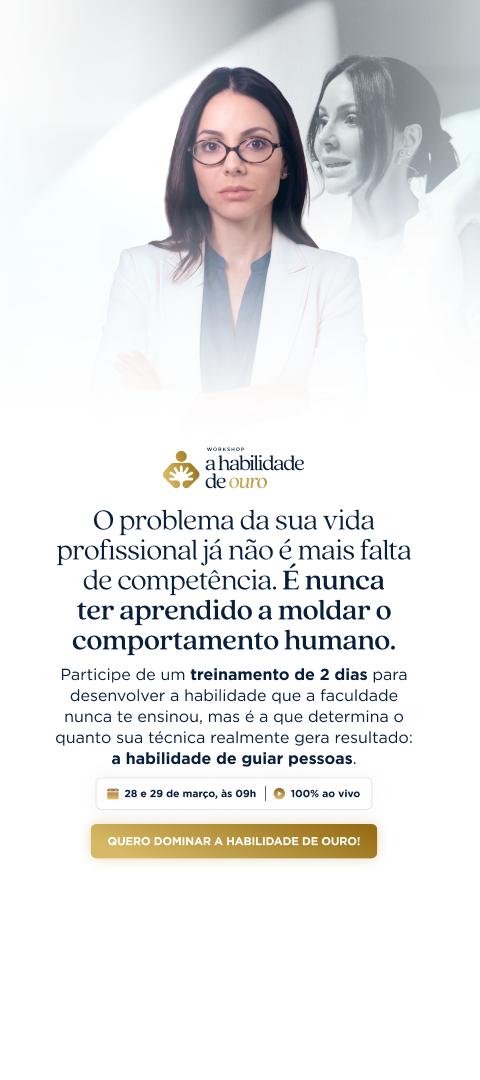
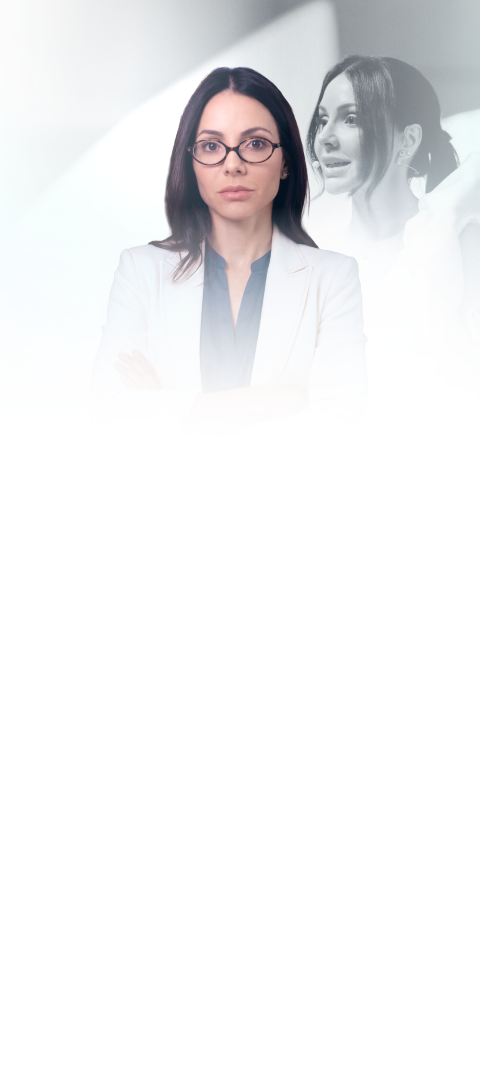
Adaptações mobile completas da landing page
- Cabeçalho: textos 11px, layout empilhado, contador separado
- Dobra 1: BG mobile, head 30px, subhead 18px, centralizado, logo posicionada
- Mentores: foto Carol antes do texto, badges full-width, textos 16px
- Seção ensinar: textos 16px, alinhados à esquerda, cards empilhados
- Cronograma: textos 16px, datas 30px, alinhados à esquerda
- Para quem é: textos 16px, espaçamentos reduzidos
- Oferta: BG mobile, textos 14px, head 28px, preço maior, pt-280px
- Paddings reduzidos (py-10) em todas as dobras mobile
- Largura máxima 360px em todo conteúdo mobile

Changed region(s): [[0.125, 0.3972, 0.875, 0.7944]]

diff --git a/src/App.tsx b/src/App.tsx
@@ -61,7 +61,8 @@ export default function App() {
       <main className="relative z-10 [&>section+section]:mt-0">
         
         {/* 1ª DOBRA - Hero */}
-        <section className="pt-[260px] md:pt-20 pb-24 px-6 bg-[url('/assets/BG1%20MOBILE.png?v=2')] bg-cover bg-[center_top_-30px] bg-no-repeat md:bg-[url('/assets/BG1%20DESKTOP.png')] md:bg-cover md:bg-[center_top_-80px] md:bg-no-repeat">
+        <section className="pt-[245px] md:pt-20 pb-12 md:pb-24 px-6 bg-[url('/assets/BG1%20MOBILE.png?v=3')] bg-cover bg-[center_top_-30px] bg-no-repeat md:bg-[url('/assets/BG1%20DESKTOP.png')] md:bg-cover md:bg-[center_top_-80px] md:bg-no-repeat relative">
+          <img src="/assets/LOGO.svg" alt="Workshop A Habilidade de Ouro" className="absolute top-[45px] left-4 h-11 w-auto md:hidden" />
           <div className="max-w-[360px] md:max-w-[1140px] mx-auto text-center md:text-left flex flex-col items-center md:items-start">
           <img src="/assets/LOGO.svg" alt="Workshop A Habilidade de Ouro" className="mb-12 h-16 w-auto hidden md:block" />
 
@@ -92,38 +93,37 @@ export default function App() {
         </section>
 
         {/* 2ª DOBRA - Mentors */}
-        <section className="py-16 px-6 bg-[url('/assets/BG%20BASE%20DESKTOP.png')] bg-cover bg-center bg-no-repeat border-y border-white/5">
+        <section className="py-10 md:py-16 px-6 bg-[url('/assets/BG%20BASE%20DESKTOP.png')] bg-cover bg-center bg-no-repeat border-y border-white/5">
           <div className="max-w-[360px] md:max-w-[1140px] mx-auto">
             <h2 className="text-3xl md:text-[40px] font-serif text-center text-white mb-10">
-              Conheça os seus mentores no<br/>
-              <span className="italic text-brand-gold">Workshop: A Habilidade de Ouro</span>
+              Conheça os seus mentores<br className="md:hidden"/> no <span className="italic text-brand-gold">Workshop:<br/> A Habilidade de Ouro</span>
             </h2>
 
             {/* Mentor Grid - Replicating the visual style of the reference */}
             <div className="grid grid-cols-1 md:grid-cols-3 gap-8">
               
               {/* Main Mentor (Carol Rache - implied from reference image structure) */}
-              <div className="md:col-span-3 flex flex-col md:flex-row items-center gap-12 mb-12 w-full">
-                <div className="w-full md:flex-1 space-y-6">
+              <div className="md:col-span-3 flex flex-col-reverse md:flex-row items-center gap-4 md:gap-12 mb-12 w-full">
+                <div className="w-full md:flex-1 space-y-3 md:space-y-6">
                   <h3 className="text-[48px] font-serif text-white">Carol Rache</h3>
-                  <p className="text-white leading-relaxed text-lg font-normal">
+                  <p className="text-white leading-relaxed text-[16px] md:text-lg font-normal">
                     Já são <strong className="font-bold">mais de 10 anos como Mentora de Desenvolvimento Pessoal</strong>. Primeiro, Carol acendeu a própria luz e se curou. Depois, transbordou essa transformação para <strong className="font-bold">+ 40 mil pessoas</strong>, que tiveram suas vidas destravadas.
                   </p>
-                  <p className="text-white leading-relaxed text-lg font-normal">
+                  <p className="text-white leading-relaxed text-[16px] md:text-lg font-normal">
                     Carol ouviu o que pulsava e seguiu seu propósito: acelerar e <strong className="font-bold">descomplicar o processo de cura emocional</strong> de outras pessoas, alcançando não só realização, mas também os seguintes resultados:
                   </p>
-                  <div className="flex flex-wrap gap-3">
-                    <div className="flex items-center gap-3 border border-white/20 rounded-md px-4 py-4">
+                  <div className="flex flex-col md:flex-row md:flex-wrap gap-3">
+                    <div className="flex items-center gap-3 border border-white/20 rounded-md px-4 py-4 w-full md:w-auto">
                       <img src="/assets/LOGO FORBES.svg" alt="Forbes" className="h-5 w-auto" />
                       <span className="text-[16px] text-white font-normal">Colunista Forbes</span>
                     </div>
-                    <div className="flex items-center gap-3 border border-white/20 rounded-md px-4 py-4">
+                    <div className="flex items-center gap-3 border border-white/20 rounded-md px-4 py-4 w-full md:w-auto">
                       <img src="/assets/LOGO HARVARD.svg" alt="Harvard" className="h-8 w-auto" />
-                      <span className="text-[16px] text-white font-normal whitespace-nowrap">Certificação em comportamento humano de Harvard</span>
+                      <span className="text-[16px] text-white font-normal md:whitespace-nowrap">Certificação em<br className="md:hidden"/> comportamento humano de Harvard</span>
                     </div>
-                    <div className="flex items-center gap-3 border border-white/20 rounded-md px-4 py-4">
+                    <div className="flex items-center gap-3 border border-white/20 rounded-md px-4 py-4 w-full md:w-auto">
                       <img src="/assets/LOGO ACENDA.svg" alt="Acenda sua Luz" className="h-8 w-auto" />
-                      <span className="text-[16px] text-white font-normal">Autora do livro "Acenda sua Luz"</span>
+                      <span className="text-[16px] text-white font-normal">Autora do livro<br className="md:hidden"/> "Acenda sua Luz"</span>
                     </div>
                   </div>
                 </div>
@@ -137,53 +137,53 @@ export default function App() {
               </div>
 
               {/* Other Mentors */}
-              <div className="space-y-6">
+              <div className="space-y-3 md:space-y-6">
                  <img
                     src="/assets/FOTO PATRUS.png"
                     alt="Roberto Patrus"
-                    className="rounded-lg shadow-xl w-full object-cover aspect-[3/4]"
+                    className="rounded-lg shadow-xl w-full object-cover aspect-square md:aspect-[3/4]"
                   />
                   <h3 className="text-[40px] font-serif text-white">Roberto Patrus</h3>
-                  <p className="text-white text-sm leading-relaxed">
+                  <p className="text-white text-[16px] md:text-sm leading-relaxed">
                     <strong className="font-bold">Filósofo, psicólogo, autor renomado e referência em comportamento humano</strong> - com mestrado em Administração e doutorado em Filosofia pela Complutense de Madrid.
                   </p>
-                  <p className="text-white text-sm leading-relaxed">
+                  <p className="text-white text-[16px] md:text-sm leading-relaxed">
                     Como professor, Roberto combina <strong className="font-bold">profundidade</strong> conceitual com linguagem acessível, trazendo à tona o poder da filosofia para iluminar decisões, dilemas íntimos e desafios do cotidiano. Sua didática é marcada pela clareza, precisão e generosidade de quem entende que <strong className="font-bold">pensar bem é um ato de liberdade</strong>.
                   </p>
               </div>
 
-              <div className="space-y-6">
+              <div className="space-y-3 md:space-y-6">
                  <img
                     src="/assets/FOTO PATY.png"
                     alt="Paty Perdigão"
-                    className="rounded-lg shadow-xl w-full object-cover aspect-[3/4]"
+                    className="rounded-lg shadow-xl w-full object-cover aspect-square md:aspect-[3/4]"
                   />
                   <h3 className="text-[40px] font-serif text-white">Paty Perdigão</h3>
-                  <p className="text-white text-sm leading-relaxed">
+                  <p className="text-white text-[16px] md:text-sm leading-relaxed">
                     Fundadora da Mentorise, mentora e especialista em desenvolvimento humano, Paty Perdigão dedicou mais de 15 anos à área de Pessoas & Cultura em cargos de liderança, antes de dar um passo corajoso rumo ao seu propósito: <strong className="font-bold">ajudar mulheres a destravarem seus talentos e construírem carreiras com sentido e prosperidade</strong>.
                   </p>
-                  <p className="text-white text-sm leading-relaxed">
+                  <p className="text-white text-[16px] md:text-sm leading-relaxed">
                     É uma das mentoras do Transcenda e da Formação Acenda sua Luz, ao lado de Carol Rache, acompanhando de perto a jornada de transformação de centenas de mulheres.
                   </p>
               </div>
 
-              <div className="space-y-6">
+              <div className="space-y-3 md:space-y-6">
                  <img
                     src="/assets/FOTO DUDA.png"
                     alt="Eduarda Maia"
-                    className="rounded-lg shadow-xl w-full object-cover aspect-[3/4]"
+                    className="rounded-lg shadow-xl w-full object-cover aspect-square md:aspect-[3/4]"
                   />
                   <h3 className="text-[40px] font-serif text-white">Eduarda Maia</h3>
-                  <p className="text-white text-sm leading-relaxed">
+                  <p className="text-white text-[16px] md:text-sm leading-relaxed">
                     <strong className="font-bold">Atua há 5 anos ajudando profissionais a se posicionarem com clareza, estratégia e autoridade.</strong>
                   </p>
-                  <p className="text-white text-sm leading-relaxed">
+                  <p className="text-white text-[16px] md:text-sm leading-relaxed">
                     É professora nos programas de desenvolvimento pessoal e profissional da Carol Rache, onde já impactou milhares de alunas.
                   </p>
-                  <p className="text-white text-sm leading-relaxed">
+                  <p className="text-white text-[16px] md:text-sm leading-relaxed">
                     E agora, vai caminhar ao lado da Carol na Formação Ilumina.
                   </p>
-                  <p className="text-white text-sm leading-relaxed">
+                  <p className="text-white text-[16px] md:text-sm leading-relaxed">
                     Eduarda vai te <strong className="font-bold">conduzir na construção da sua clareza</strong>, da sua presença e da voz que você precisa assumir como Mentora.
                   </p>
               </div>
@@ -193,52 +193,54 @@ export default function App() {
         </section>
 
         {/* 3ª DOBRA - The Gap */}
-        <section className="py-16 px-6 bg-white">
-          <div className="max-w-[360px] md:max-w-[1140px] mx-auto text-center">
+        <section className="py-10 md:py-16 px-6 bg-white">
+          <div className="max-w-[360px] md:max-w-[1140px] mx-auto text-left md:text-center">
           <h2 className="text-3xl md:text-[40px] font-serif text-[#081E3B] mb-10 text-center">
-            O que essas pessoas vão te ensinar nos dias 28 e 29 de março:
+            O que essas pessoas vão<br className="md:hidden"/> te ensinar nos dias<br className="md:hidden"/> 28 e 29 de março:
           </h2>
 
-          <div className="space-y-8 text-lg text-[#081E3B] leading-relaxed font-light">
+          <div className="space-y-8 text-[16px] md:text-lg text-[#081E3B] leading-relaxed font-light">
             <div className="flex flex-col md:flex-row gap-6 items-center justify-center">
-              <div className="flex gap-4 justify-center">
-                <div className="flex items-center gap-3 border border-brand-gold/30 rounded-lg px-5 py-4 bg-[#081E3B]/5">
+              <div className="flex flex-col md:flex-row gap-4 justify-center">
+                <div className="flex items-center justify-center gap-3 border border-brand-gold/30 rounded-lg px-5 py-4 bg-[#081E3B]/5 w-full md:w-auto">
                   <img src="/assets/CALENDARIO GOLD.svg" alt="" className="h-6 w-auto" />
                   <div>
-                    <p className="text-[#081E3B] font-bold text-lg">2 encontros ao vivo</p>
-                    <p className="text-[#081E3B]/60 text-sm">28 e 29 de março</p>
+                    <p className="text-[#081E3B] font-bold text-[16px] md:text-lg">2 encontros ao vivo</p>
+                    <p className="text-[#081E3B]/60 text-[14px] md:text-sm">28 e 29 de março</p>
                   </div>
                 </div>
-                <div className="flex items-center gap-3 border border-brand-gold/30 rounded-lg px-5 py-4 bg-[#081E3B]/5">
+                <div className="flex items-center justify-center gap-3 border border-brand-gold/30 rounded-lg px-5 py-4 bg-[#081E3B]/5 w-full md:w-auto">
                   <Clock className="w-6 h-6 text-brand-gold" />
                   <div>
-                    <p className="text-[#081E3B] font-bold text-lg">Das 9h às 12h</p>
-                    <p className="text-[#081E3B]/60 text-sm">Horário de Brasília</p>
+                    <p className="text-[#081E3B] font-bold text-[16px] md:text-lg">Das 9h às 12h</p>
+                    <p className="text-[#081E3B]/60 text-[14px] md:text-sm">Horário de Brasília</p>
                   </div>
                 </div>
               </div>
             </div>
             <p>
-              Nós vamos mergulhar exatamente na habilidade que a maioria dos profissionais nunca aprendeu,<br/> mas que determina o quanto sua técnica realmente gera resultados.
+              Nós vamos mergulhar exatamente na habilidade que a maioria dos profissionais nunca aprendeu, mas que determina o quanto sua técnica realmente gera resultados.
             </p>
-            <p className="text-xl text-[#081E3B] font-medium border-y border-brand-gold py-6 w-fit mx-auto">
-              Porque existe um detalhe que quase ninguém percebe durante a formação profissional:<br/> você aprende o que fazer. Mas nunca aprende <span className="text-brand-gold italic">como fazer as pessoas realmente aplicarem<br/> aquilo que você propõe.</span>
+            <p className="text-[16px] md:text-xl text-[#081E3B] font-medium border-y border-brand-gold py-6 w-fit mx-auto">
+              Porque existe um detalhe que quase ninguém percebe durante a formação profissional: você aprende o que fazer.<br className="md:hidden"/> Mas nunca aprende <span className="text-brand-gold italic">como fazer as pessoas realmente aplicarem aquilo que você propõe.</span>
             </p>
             <div className="border border-[#CED2D8] rounded-md px-4 py-4 w-fit mx-auto">
               <p>E é exatamente essa lacuna que vamos começar a preencher juntos.</p>
             </div>
             <p>
-              Ao longo desse final de semana, você vai começar a entender por que alguns profissionais<br/> extremamente competentes continuam lutando para crescer… enquanto outros conseguem<br/> <strong className="font-bold">gerar mais resultado, mais reconhecimento e mais valor</strong> com o mesmo conhecimento técnico.
+              Ao longo desse final de semana, você vai começar a entender por que alguns profissionais extremamente competentes continuam lutando para crescer… enquanto outros conseguem <strong className="font-bold">gerar mais resultado, mais reconhecimento e mais valor</strong> com o mesmo conhecimento técnico.
             </p>
           </div>
-          <button className="mt-10 bg-gradient-to-r from-[#966E16] to-[#D6B865] hover:from-[#7d5c12] hover:to-[#c4a855] text-white font-bold text-[16px] px-10 py-5 rounded-lg transition-all duration-300 transform hover:scale-105 shadow-[0_0_30px_rgba(207,168,97,0.3)] uppercase tracking-wider">
+          <div className="flex justify-center mt-10">
+          <button className="bg-gradient-to-r from-[#966E16] to-[#D6B865] hover:from-[#7d5c12] hover:to-[#c4a855] text-white font-bold text-[16px] px-10 py-5 rounded-lg transition-all duration-300 transform hover:scale-105 shadow-[0_0_30px_rgba(207,168,97,0.3)] uppercase tracking-wider">
             É DISSO QUE EU PRECISO!
           </button>
+          </div>
           </div>
         </section>
 
         {/* 4ª DOBRA - Schedule */}
-        <section className="py-16 px-6 bg-[url('/assets/BG%20BASE%20DESKTOP.png')] bg-cover bg-center bg-no-repeat" style={{transform: 'scaleX(-1)'}}>
+        <section className="py-10 md:py-16 px-6 bg-[url('/assets/BG%20BASE%20DESKTOP.png')] bg-cover bg-center bg-no-repeat" style={{transform: 'scaleX(-1)'}}>
           <div className="max-w-[360px] md:max-w-[1140px] mx-auto" style={{transform: 'scaleX(-1)'}}>
             <h2 className="text-3xl md:text-[40px] font-serif text-center text-white mb-10">
               Cronograma oficial
@@ -249,12 +251,12 @@ export default function App() {
               <div className="bg-brand-navy-light/50 p-8 md:p-12 rounded-2xl border border-white/10 relative overflow-hidden group hover:border-brand-gold/30 transition-colors">
                 <div className="absolute top-0 left-0 w-1 h-full bg-brand-gold transform origin-top scale-y-0 group-hover:scale-y-100 transition-transform duration-500"></div>
                 
-                <h3 className="text-[36px] font-serif text-brand-gold mb-2">Sábado, 28 de março</h3>
-                <p className="text-sm text-white uppercase tracking-wider mb-8 flex items-center gap-2">
+                <h3 className="text-[30px] md:text-[36px] font-serif text-brand-gold mb-2">Sábado, 28 de março</h3>
+                <p className="text-[16px] md:text-sm text-white uppercase tracking-wider mb-8 flex items-center gap-2">
                   <Clock className="w-4 h-4" /> das 9h às 12h
                 </p>
 
-                <div className="space-y-6 text-white font-light leading-relaxed">
+                <div className="space-y-6 text-white font-light leading-relaxed text-[16px] text-left">
                   <p>No primeiro encontro, nós vamos começar investigando aquilo que quase nunca é discutido na formação profissional: o comportamento humano como o verdadeiro motor dos resultados.</p>
                   
                   <p>Você vai perceber que o resultado do seu trabalho não depende apenas da qualidade daquilo que você entrega. Ele também depende do que as pessoas fazem com aquilo que você entrega.</p>
@@ -292,12 +294,12 @@ export default function App() {
               <div className="bg-brand-navy-light/50 p-8 md:p-12 rounded-2xl border border-white/10 relative overflow-hidden group hover:border-brand-gold/30 transition-colors">
                 <div className="absolute top-0 left-0 w-1 h-full bg-brand-gold transform origin-top scale-y-0 group-hover:scale-y-100 transition-transform duration-500"></div>
                 
-                <h3 className="text-[36px] font-serif text-brand-gold mb-2">Domingo, 29 de março</h3>
-                <p className="text-sm text-white uppercase tracking-wider mb-8 flex items-center gap-2">
+                <h3 className="text-[30px] md:text-[36px] font-serif text-brand-gold mb-2">Domingo, 29 de março</h3>
+                <p className="text-[16px] md:text-sm text-white uppercase tracking-wider mb-8 flex items-center gap-2">
                   <Clock className="w-4 h-4" /> das 9h às 12h
                 </p>
 
-                <div className="space-y-6 text-white font-light leading-relaxed">
+                <div className="space-y-6 text-white font-light leading-relaxed text-[16px] text-left">
                   <p>Se o sábado é o momento em que você entende o que estava faltando, o domingo será onde começamos a construir essa habilidade na prática.</p>
                   
                   <p>Porque entender comportamento humano não é apenas uma teoria interessante. É uma competência que muda completamente a forma como as pessoas respondem a você.</p>
@@ -348,82 +350,82 @@ export default function App() {
         </section>
 
         {/* 5ª DOBRA - Target Audience */}
-        <section className="pt-16 pb-16 px-6 bg-white">
+        <section className="pt-10 pb-10 md:pt-16 md:pb-16 px-6 bg-white">
           <div className="max-w-[360px] md:max-w-[1140px] mx-auto">
-          <h2 className="text-3xl md:text-[40px] font-serif text-center text-[#081E3B] mb-10">
-            Para quem é o <span className="italic text-brand-gold">Workshop A Habilidade de Ouro?</span>
+          <h2 className="text-3xl md:text-[40px] font-serif text-center text-[#081E3B] mb-4 md:mb-10">
+            Para quem é o <span className="italic text-brand-gold">Workshop<br className="md:hidden"/> A Habilidade de Ouro?</span>
           </h2>
 
-          <p className="text-xl text-center text-[#081E3B]/80 mb-12">Ele é especialmente para você que:</p>
+          <p className="text-[16px] md:text-xl text-center text-[#081E3B]/80 mb-6 md:mb-12">Ele é especialmente para você que:</p>
 
-          <div className="grid grid-cols-1 md:grid-cols-3 gap-6 mb-16">
+          <div className="grid grid-cols-1 md:grid-cols-3 gap-4 md:gap-6 mb-8 md:mb-16">
             <div className="flex flex-col items-start gap-4 bg-[#081E3B]/5 p-6 rounded-xl border border-[#CED2D8]">
               <CheckCircle2 className="w-6 h-6 text-brand-gold shrink-0" />
-              <p className="text-lg text-[#081E3B]/80 leading-[1.4]">
+              <p className="text-[16px] md:text-lg text-[#081E3B]/80 leading-[1.4]">
                 <strong className="text-[#081E3B] font-medium">É profissional autônomo ou especialista</strong> e sente que poderia gerar muito mais resultado nos seus clientes se soubesse lidar melhor com o comportamento das pessoas
               </p>
             </div>
 
             <div className="flex flex-col items-start gap-4 bg-[#081E3B]/5 p-6 rounded-xl border border-[#CED2D8]">
               <CheckCircle2 className="w-6 h-6 text-brand-gold shrink-0" />
-              <p className="text-lg text-[#081E3B]/80 leading-[1.4]">
+              <p className="text-[16px] md:text-lg text-[#081E3B]/80 leading-[1.4]">
                 <strong className="text-[#081E3B] font-medium">É líder ou gestor</strong> e percebe que muitas vezes o desafio não é ter uma boa estratégia, é fazer as pessoas realmente executarem
               </p>
             </div>
 
             <div className="flex flex-col items-start gap-4 bg-[#081E3B]/5 p-6 rounded-xl border border-[#CED2D8]">
               <CheckCircle2 className="w-6 h-6 text-brand-gold shrink-0" />
-              <p className="text-lg text-[#081E3B]/80 leading-[1.4]">
+              <p className="text-[16px] md:text-lg text-[#081E3B]/80 leading-[1.4]">
                 <strong className="text-[#081E3B] font-medium">Trabalha diretamente com pessoas</strong> (atendendo, liderando, orientando ou ensinando) e quer desenvolver uma habilidade que transforma conhecimento em resultado real nas pessoas.
               </p>
             </div>
           </div>
 
-          <p className="text-xl text-center text-[#081E3B] font-medium italic border-y border-brand-gold py-8 w-fit mx-auto">
+          <p className="text-[16px] md:text-xl text-center text-[#081E3B] font-medium italic border-y border-brand-gold py-8 w-fit mx-auto">
             Se você sente que existe uma metade da sua profissão que ninguém nunca te ensinou,<br/> é exatamente isso que vamos explorar juntos nessa imersão!
           </p>
           </div>
         </section>
 
         {/* 6ª DOBRA - Offer */}
-        <section className="py-24 px-6 bg-brand-navy bg-[url('/assets/BG%20OFERTA%20DESKTOP.png')] bg-cover bg-[center_bottom_-50px] bg-no-repeat">
-          <div className="max-w-[360px] md:max-w-[1140px] mx-auto">
-          <div className="max-w-[520px] ml-16 bg-brand-navy-light border border-brand-gold/30 rounded-3xl px-5 py-8 text-center shadow-[0_0_50px_rgba(207,168,97,0.1)] relative overflow-hidden">
+        <section className="pt-[280px] pb-10 md:py-24 px-6 bg-brand-navy bg-[url('/assets/BG%20OFERTA%20MOBILE.png')] md:bg-[url('/assets/BG%20OFERTA%20DESKTOP.png')] bg-cover bg-top md:bg-[center_bottom_-50px] bg-no-repeat">
+          <div className="max-w-[360px] md:max-w-[1140px] mx-auto flex justify-center md:justify-start">
+          <div className="max-w-[520px] md:ml-16 bg-brand-navy-light border border-brand-gold/30 rounded-3xl px-5 py-8 text-center shadow-[0_0_50px_rgba(207,168,97,0.1)] relative overflow-hidden">
             
             {/* Decorative elements */}
             <div className="absolute top-0 left-0 w-full h-[1px] bg-gradient-to-r from-transparent via-brand-gold to-transparent"></div>
             
-            <h2 className="text-3xl md:text-[32px] font-serif text-white mb-6">
-              Ao garantir sua vaga agora,<br/> você vai receber:
+            <h2 className="text-[28px] md:text-[32px] font-serif text-white mb-6 leading-[1.1]">
+              Ao garantir sua vaga agora, você vai receber:
             </h2>
 
             <div className="space-y-3 text-left max-w-xl mx-auto mb-3">
               <div className="flex items-center gap-4 border-b border-white/5 pb-4">
                 <CheckCircle2 className="w-6 h-6 text-brand-gold shrink-0" />
-                <span className="text-lg text-white">2 encontros ao vivo sobre como aplicar comportamento humano na sua carreira</span>
+                <span className="text-[14px] md:text-lg text-white">2 encontros ao vivo sobre como aplicar comportamento humano na sua carreira</span>
               </div>
               <div className="flex items-center gap-4 border-b border-white/5 pb-4">
                 <CheckCircle2 className="w-6 h-6 text-brand-gold shrink-0" />
-                <span className="text-lg text-white">6 horas de imersão prática</span>
+                <span className="text-[14px] md:text-lg text-white">6 horas de imersão prática</span>
               </div>
               <div className="flex items-center gap-4 border-b border-white/5 pb-4">
                 <CheckCircle2 className="w-6 h-6 text-brand-gold shrink-0" />
-                <span className="text-lg text-white">Acesso a 4 mentores indispensáveis, incluindo Carol Rache</span>
+                <span className="text-[14px] md:text-lg text-white">Acesso a 4 mentores indispensáveis, incluindo Carol Rache</span>
               </div>
               <div className="flex items-center gap-4 pb-4">
                 <CheckCircle2 className="w-6 h-6 text-brand-gold shrink-0" />
-                <span className="text-lg text-white">Apostila completa da Imersão, com os principais frameworks abordados durante o workshop</span>
+                <span className="text-[14px] md:text-lg text-white">Apostila completa da Imersão, com os principais frameworks abordados durante o workshop</span>
               </div>
             </div>
 
             <div className="flex items-center justify-center gap-4 mb-3">
-              <p className="text-white uppercase tracking-widest text-sm text-center font-bold">Tudo isso<br/>por apenas:</p>
-              <div className="text-6xl md:text-8xl font-serif text-brand-gold drop-shadow-lg flex items-center">
-                <span className="text-3xl md:text-4xl mr-1">R$</span>97
+              <p className="text-white uppercase tracking-widest text-[14px] md:text-sm text-center font-bold">Tudo isso<br/>por apenas:</p>
+              <div className="text-7xl md:text-8xl font-serif text-brand-gold drop-shadow-lg flex items-center">
+                <span className="text-4xl md:text-4xl mr-1">R$</span>97
               </div>
             </div>
 
-            <button className="w-full md:w-auto bg-gradient-to-r from-[#966E16] to-[#D6B865] hover:from-[#7d5c12] hover:to-[#c4a855] text-white font-bold text-[16px] px-12 py-6 rounded-lg transition-all duration-300 transform hover:scale-105 shadow-[0_0_30px_rgba(207,168,97,0.3)] uppercase tracking-wider">
+            <button className="w-full md:w-auto bg-gradient-to-r from-[#966E16] to-[#D6B865] hover:from-[#7d5c12] hover:to-[#c4a855] text-white font-bold text-[14px] md:text-[16px] px-6 md:px-12 py-4 md:py-6 rounded-lg whitespace-nowrap transition-all duration-300 transform hover:scale-105 shadow-[0_0_30px_rgba(207,168,97,0.3)] uppercase tracking-wider">
               Garantir minha vaga agora
             </button>
           </div>
@@ -431,10 +433,10 @@ export default function App() {
         </section>
 
         {/* 7ª DOBRA - Recordings Objection */}
-        <section className="pt-8 pb-16 px-6 bg-gradient-to-b from-brand-navy-light to-brand-navy">
+        <section className="pt-6 pb-10 md:pt-8 md:pb-16 px-6 bg-gradient-to-b from-brand-navy-light to-brand-navy">
           <div className="max-w-[360px] md:max-w-[1140px] mx-auto text-center">
           <h2 className="text-3xl md:text-[40px] font-serif text-white mb-8">
-            “E se eu não puder estar ao vivo?”
+            E se eu não puder estar ao vivo?
           </h2>
           
           <div className="space-y-6 text-lg text-white/70 leading-relaxed font-light">
@@ -455,7 +457,7 @@ export default function App() {
         </section>
 
         {/* 8ª DOBRA - Support */}
-        <section className="py-16 px-6 bg-white/5 text-center">
+        <section className="py-10 md:py-16 px-6 bg-white/5 text-center">
           <h2 className="text-3xl md:text-[40px] font-serif text-white mb-6">
             Tem alguma dúvida?
           </h2>
@@ -467,7 +469,7 @@ export default function App() {
         </section>
 
         {/* 9ª DOBRA - FAQ */}
-        <section className="py-16 px-6 max-w-[360px] md:max-w-[1140px] mx-auto">
+        <section className="py-10 md:py-16 px-6 max-w-[360px] md:max-w-[1140px] mx-auto">
           <h2 className="text-3xl md:text-[40px] font-serif text-center text-white mb-10">
             Perguntas Frequentes
           </h2>
